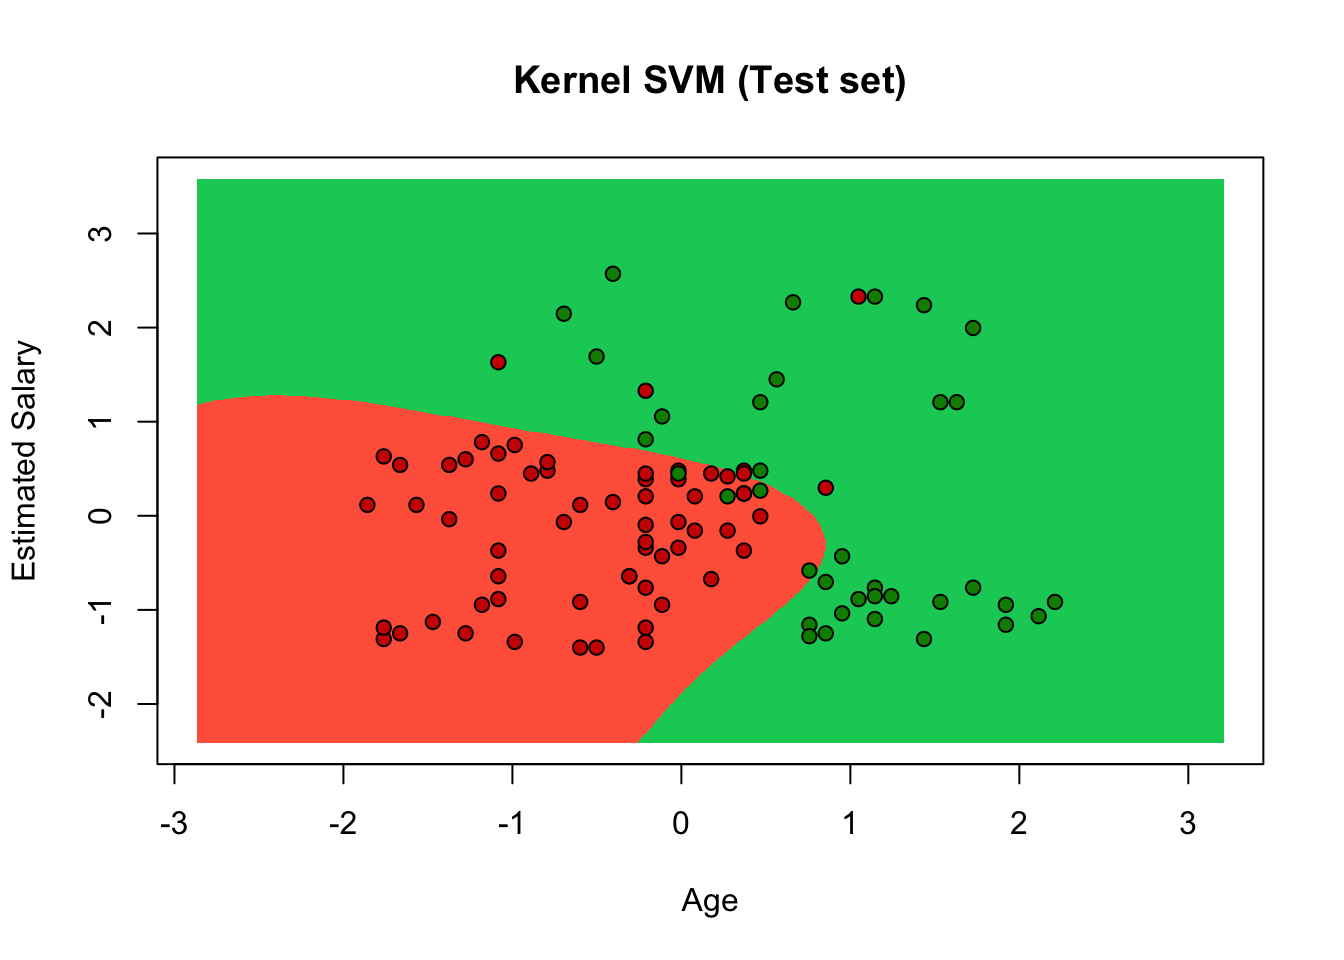
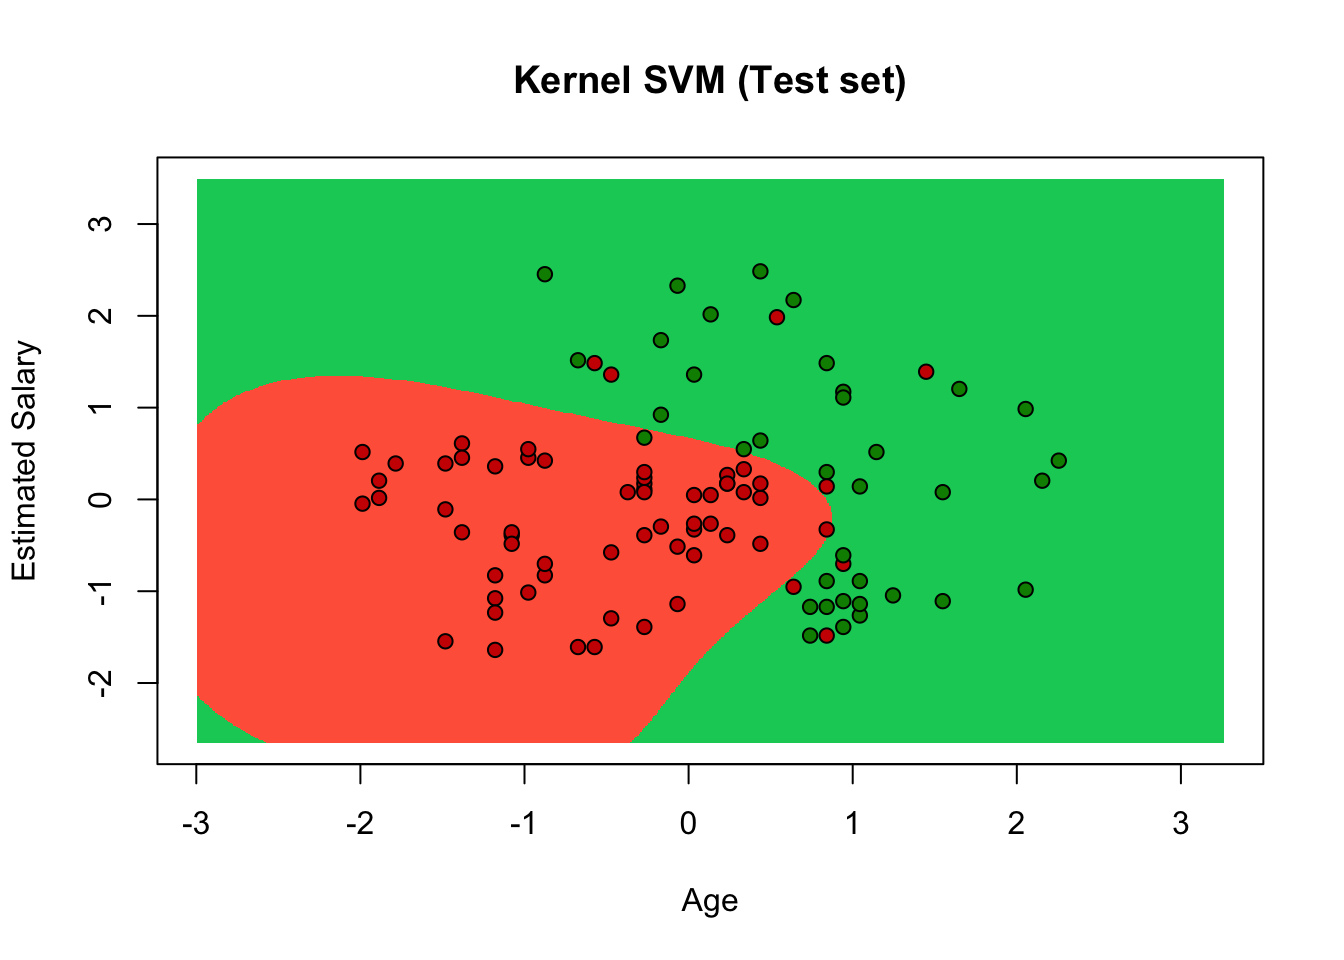
changing summary for classifiers md

diff --git a/content/rstatistics/RMarkdown_classifiers/index.en.html b/content/rstatistics/RMarkdown_classifiers/index.en.html
@@ -8,6 +8,7 @@ tags:
 - Kernel SVM
 - Naive Bayes
 categories: R
+summary: In this R Markdown, I go through three of the classification methods I learnt on a machine learning Udemy course. These classifiers include logistic regression, kernal support vector machine, and naive bayes. Each of these will be compared to see which one best classifies the dataset.
 ---
 
 
@@ -56,13 +57,13 @@ test_set &lt;- subset(social_ads, split == FALSE)</code></pre>
 test_set[,1:2] &lt;- scale(test_set[,1:2])
 
 head(training_set)</code></pre>
-<pre><code>##          Age EstimatedSalary Purchased
-## 1 -1.7835197      -1.5325975         0
-## 4 -1.0251130      -0.4252574         0
-## 5 -1.7835197       0.1284126         0
-## 6 -1.0251130      -0.3961169         0
-## 7 -1.0251130       0.3615368         0
-## 8 -0.5511088       2.2848116         1</code></pre>
+<pre><code>##           Age EstimatedSalary Purchased
+## 1  -1.7451908      -1.4600453         0
+## 2  -0.2479762      -1.4313231         0
+## 7  -0.9965835       0.4068979         0
+## 8  -0.5287039       2.3025632         1
+## 9  -1.1837353      -1.0579344         0
+## 10 -0.2479762      -0.1388240         0</code></pre>
 <p>Next, we scale each of the sets so that age and estimated salary are transformed into standard deviation units (as can be seen in the tibble).</p>
 </div>
 <div id="fitting-the-logistic-regression-to-the-training-set" class="section level3">
@@ -87,8 +88,8 @@ y_pred &lt;- ifelse(prob_pred &gt; 0.5, 1, 0)</code></pre>
 cm</code></pre>
 <pre><code>##    y_pred
 ##      0  1
-##   0 55  9
-##   1 10 26</code></pre>
+##   0 57  7
+##   1 11 25</code></pre>
 <p>The confusion matrix gives us the results of our test set. The matrix is split into the true &amp; false positives and negatives. From the table, we can see that the model correctly predicted 60 of those people that did not purchase the ads (0, 0; true negative) and 23 of those that did purchase (1, 1; true positive). The accuracy can be calculated by: true positives + true negatives / total * 100. Therefore, the accuracy equals <strong>83%</strong> for the logistic regression classifier.</p>
 </div>
 <div id="visualising-the-training-set" class="section level3">
@@ -168,8 +169,8 @@ points(set, pch = 21, bg = ifelse(set[, 3] == 1, &#39;green4&#39;, &#39;red3&#39
 cm</code></pre>
 <pre><code>##    y_pred
 ##      0  1
-##   0 58  6
-##   1  4 32</code></pre>
+##   0 56  8
+##   1  1 35</code></pre>
 <p>Using the kernal SVM, we obtain an accuracy of <strong>92%</strong>.</p>
 </div>
 <div id="visualising-the-training-set-results" class="section level3">
@@ -246,8 +247,8 @@ test_set = subset(social_ads, split == FALSE)</code></pre>
 cm</code></pre>
 <pre><code>##    y_pred
 ##      0  1
-##   0 59  5
-##   1  8 28</code></pre>
+##   0 61  3
+##   1  5 31</code></pre>
 <p>Under naive bayes, the model has an accuracy of <strong>86%</strong>.</p>
 </div>
 <div id="visualising-the-test-set-results-1" class="section level3">

diff --git a/content/rstatistics/RMarkdown on dominance/index.en.html b/content/rstatistics/RMarkdown on dominance/index.en.html
@@ -1,7 +1,7 @@
 ---
 title: 'The relationship between physical & social dominance'
 author: "Matthew Waddington"
-date: '2019-08-19T21:13:14-05:00'
+date: '2019-08-19'
 tags:
 - R Markdown
 - PCA
